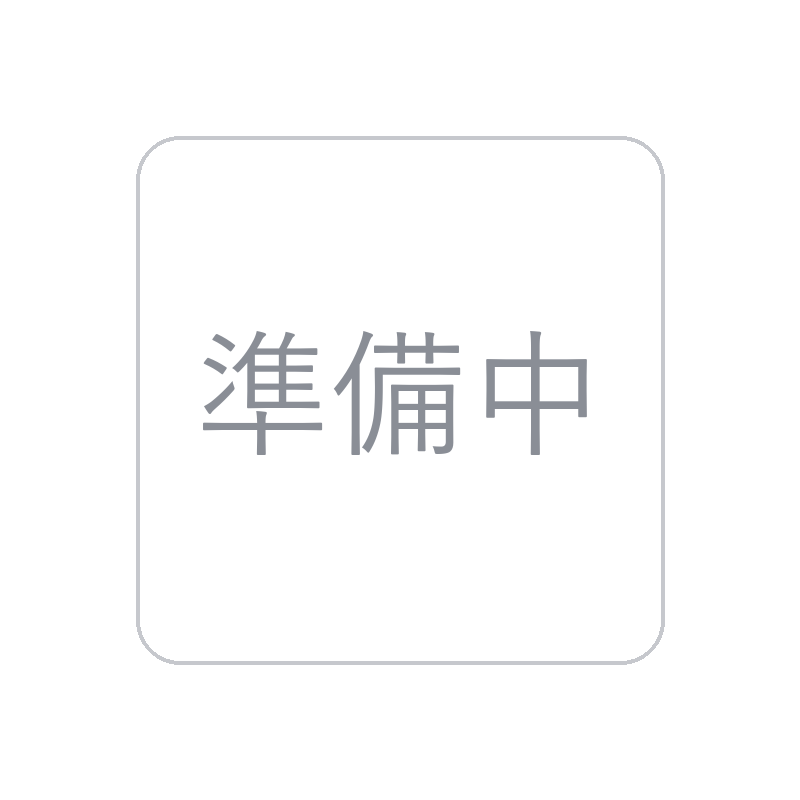
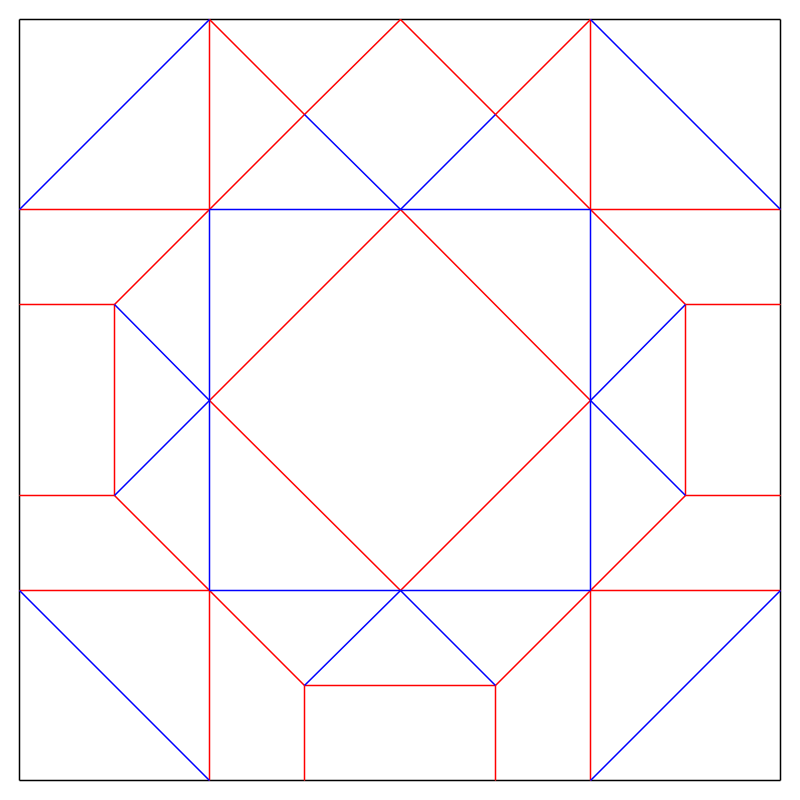
feat: やっこさんの追加

diff --git a/index.html b/index.html
@@ -463,7 +463,7 @@ var WORKS = [
   { id: "chicken",     name: "にわとり" },
   { id: "flower",      name: "花" },
   { id: "pig",         name: "ブタ" },
-  { id: "yakko",       name: "やっこさん", pending: true }
+  { id: "yakko",       name: "やっこさん" }
 ];
 
 /* 立体形状の作品（3D） */
